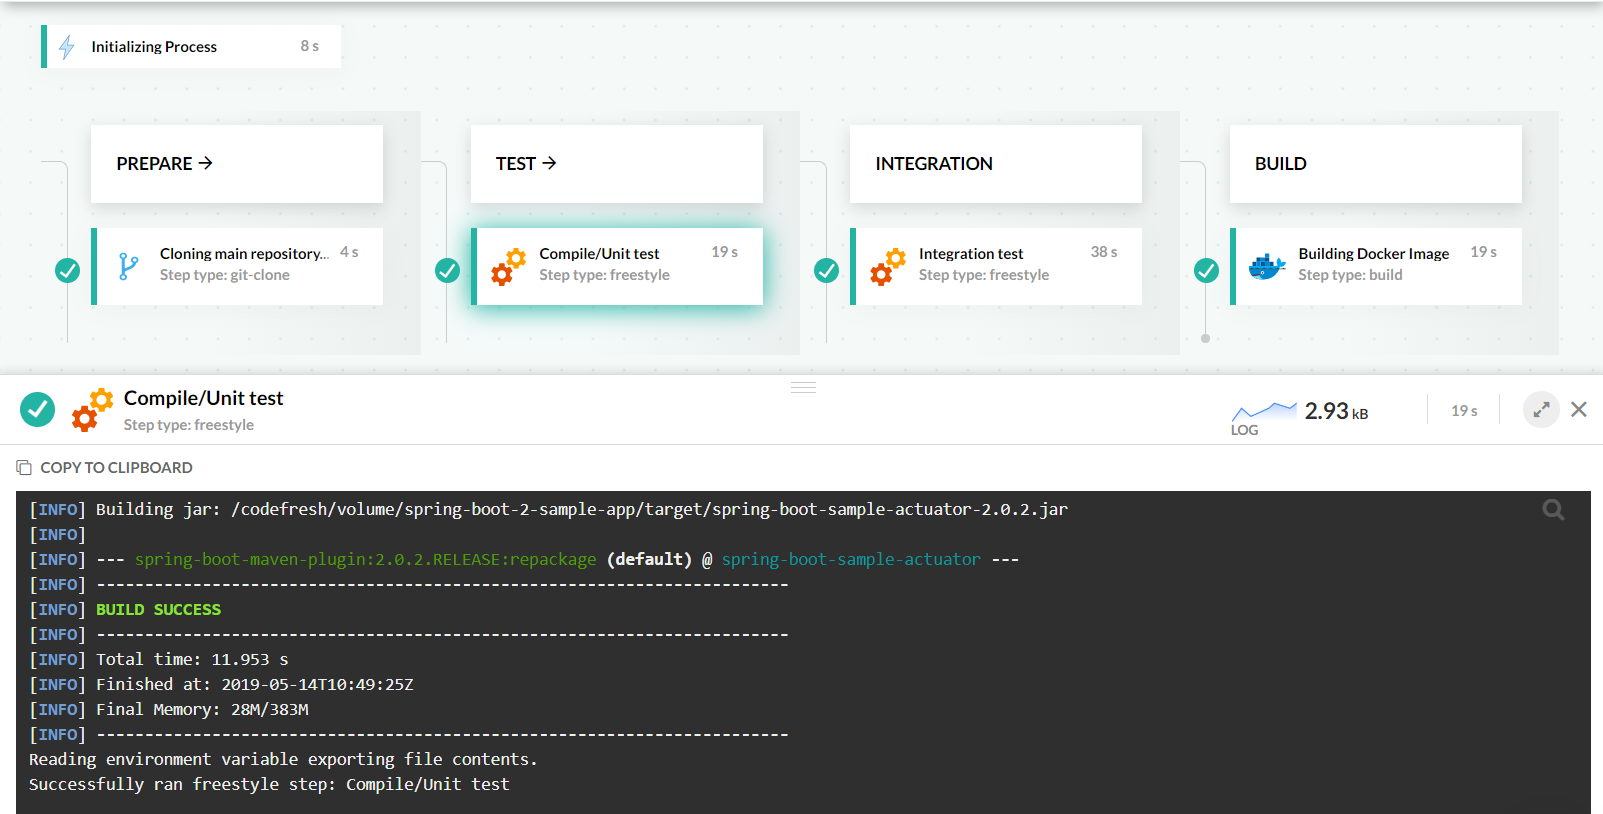
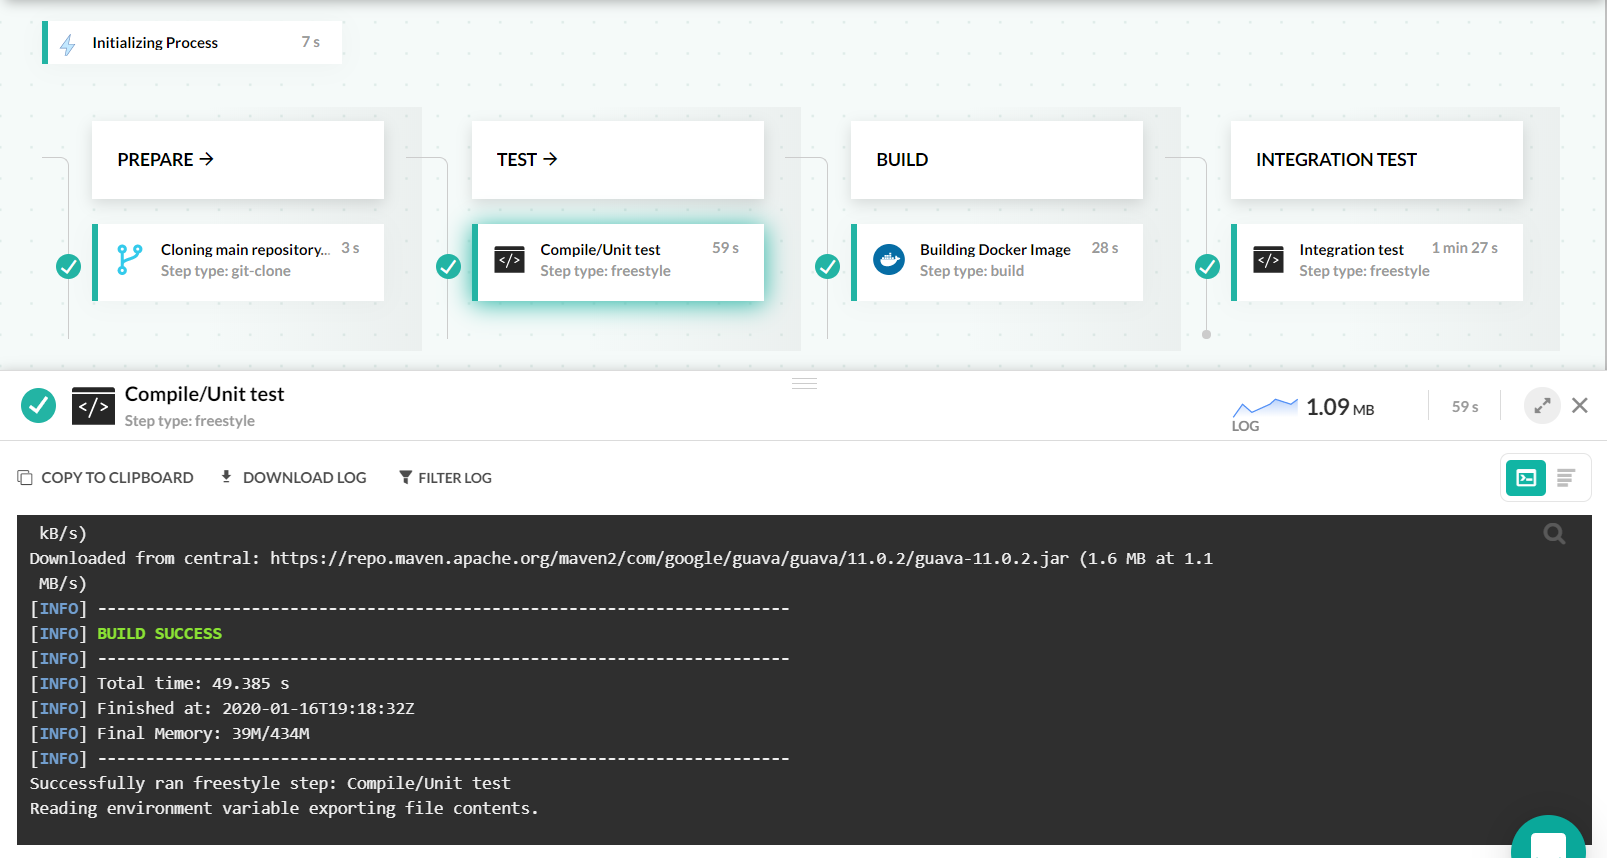
Used service containers in spring boot example

diff --git a/_docs/learn-by-example/java/spring-boot-2.md b/_docs/learn-by-example/java/spring-boot-2.md
@@ -28,7 +28,7 @@ Once launched the application presents a simple message at localhost:8080 and al
 
 A Dockerfile is also provided at the same repository. It uses the base JRE image and just copies the JAR file inside the container.
 
- `Dockerfile`
+ `Dockerfile.only-package`
 {% highlight docker %}
 {% raw %}
 FROM java:8-jre-alpine
@@ -52,15 +52,15 @@ The repository also contains a premade [Codefresh YAML file]({{site.baseurl}}/do
 
 Here are the full contents of the file.
 
- `codefresh.yml`
+ `codefresh-package-only.yml`
 {% highlight yaml %}
 {% raw %}
 version: '1.0'
 stages:
   - prepare
   - test
-  - integration
   - build
+  - 'integration test'
 steps:
   main_clone:
     title: Cloning main repository...
@@ -69,30 +69,43 @@ steps:
     repo: 'codefresh-contrib/spring-boot-2-sample-app'
     revision: master
     git: github
-  MyUnitTests:
+  run_unit_tests:
     title: Compile/Unit test
     stage: test
     image: 'maven:3.5.2-jdk-8-alpine'
     commands:
-      - mvn -Dmaven.repo.local=/codefresh/volume/m2_repository package
-  Integration:
-    title: Integration test
-    stage: integration
-    image: maven:3.5.2-jdk-8-alpine
-    commands:
-     - mvn -Dmaven.repo.local=/codefresh/volume/m2_repository verify      
-  MyAppDockerImage:
+      - mvn -Dmaven.repo.local=/codefresh/volume/m2_repository package      
+  build_app_image:
     title: Building Docker Image
     type: build
     stage: build
     image_name: spring-boot-2-sample-app
     working_directory: ./
     tag: 'non-multi-stage'
-    dockerfile: Dockerfile
+    dockerfile: Dockerfile.only-package
+  run_integration_tests:
+    title: Integration test
+    stage: 'integration test'
+    image: maven:3.5.2-jdk-8-alpine
+    commands:
+     - mvn -Dmaven.repo.local=/codefresh/volume/m2_repository verify -Dserver.host=http://my-spring-app
+    services:
+      composition:
+        my-spring-app:
+          image: '${{build_app_image}}'
+          ports:
+            - 8080
+      readiness:
+        timeoutSeconds: 30
+        periodSeconds: 15
+        image: byrnedo/alpine-curl
+        commands:
+          - "curl http://my-spring-app:8080/"
 {% endraw %}
 {% endhighlight %}
 
-The pipeline starts by checking out the code using a [git clone step]({{site.baseurl}}/docs/codefresh-yaml/steps/git-clone/). The next two steps are [freestyle]({{site.baseurl}}/docs/codefresh-yaml/steps/freestyle/), while the last one is a [build step]({{site.baseurl}}/docs/codefresh-yaml/steps/build/).
+The pipeline starts by checking out the code using a [git clone step]({{site.baseurl}}/docs/codefresh-yaml/steps/git-clone/). The next step is  a [freestyle]({{site.baseurl}}/docs/codefresh-yaml/steps/freestyle/) one and packages the jar file. Next we have a [build step]({{site.baseurl}}/docs/codefresh-yaml/steps/build/) that creates the docker image. Finally we have another freestyle
+step that uses [service containers]({{site.baseurl}}/docs/codefresh-yaml/service-containers/) to run integration tests.
 
 {% include image.html 
 lightbox="true" 
@@ -107,15 +120,9 @@ After checking out the code we use the standard [Maven Docker image](https://hub
 
 ### Caching the Maven dependencies
 
-Codefresh is smart enough that [caches automatically]({{site.baseurl}}/docs/configure-ci-cd-pipeline/introduction-to-codefresh-pipelines/#how-caching-works-in-codefresh) for us the workspace of a build (`/codefresh/volume`). This works great for build tools that keep their cache in the project folder, but not for Maven/Gradle which keep their cache externally. By changing the location of the Maven use on the project folder (the `m2_repository` name is arbitrary) we make sure that Codefresh will cache automatically the Maven libraries resulting in much faster builds.
+Codefresh is smart enough that [caches automatically]({{site.baseurl}}/docs/configure-ci-cd-pipeline/pipeline-caching/) for us the workspace of a build (`/codefresh/volume`). This works great for build tools that keep their cache in the project folder, but not for Maven/Gradle which keep their cache externally. By changing the location of the Maven use on the project folder (the `m2_repository` name is arbitrary) we make sure that Codefresh will cache automatically the Maven libraries resulting in much faster builds.
 
-The next step is similar to the previous one, but this time we run integration tests. We define again a custom cache folder so when you run the build you will see that Maven will automatically pick the cache from the previous step. All Codefresh steps in a pipeline [run on the same workspace]({{site.baseurl}}/docs/configure-ci-cd-pipeline/introduction-to-codefresh-pipelines/#sharing-the-workspace-between-build-steps), so the build results from one step are visible to the next.
-
->Notice that because the [Maven lifecycle](https://maven.apache.org/guides/introduction/introduction-to-the-lifecycle.html) also executes the previous steps in a build, the `mvn verify` command essentially will run `mvn package` as well. In theory we could just have the _Integration_ step in this pipeline on its own. That step would build the code, run unit and integration tests all in one stage. For demonstration purposes however, we include two steps so that you can see the correct usage of Maven cache.
-
-The Spring Boot 2 project is setup so that the `verify` phase automatically starts the application, runs the integration tests and stops it. This is defined in the [pom.xml](https://github.com/codefresh-contrib/spring-boot-2-sample-app/blob/master/pom.xml#L81) with the standard Maven lifecycle bindings.
-
-The last step is a Docker build. We name our image **spring-boot-2-sample-app** and tag it with a string `non-multi-stage` but of course you can use any other tag name that you wish.
+The next step is a Docker build. We name our image **spring-boot-2-sample-app** and tag it with a string `non-multi-stage` but of course you can use any other tag name that you wish.
 
 {% include image.html 
 lightbox="true" 
@@ -128,13 +135,17 @@ max-width="80%"
 
 Once the pipeline is finished you will see the Spring Boot 2 Docker image in the [Codefresh Docker registry]({{site.baseurl}}/docs/docker-registries/codefresh-registry/) (or any other registry that you have linked within Codefresh).
 
+The last step is similar to the unit tests, but this time we run integration tests. We define again a custom cache folder so when you run the build you will see that Maven will automatically pick the cache from the previous step. All Codefresh steps in a pipeline [run on the same workspace]({{site.baseurl}}/docs/configure-ci-cd-pipeline/introduction-to-codefresh-pipelines/#sharing-the-workspace-between-build-steps), so the build results from one step are visible to the next.
+
+>Notice that because the [Maven lifecycle](https://maven.apache.org/guides/introduction/introduction-to-the-lifecycle.html) also executes the previous steps in a build, the `mvn verify` command essentially will run `mvn package` as well. In theory we could just have the _Integration_ step in this pipeline on its own. That step would build the code, run unit and integration tests all in one stage. For demonstration purposes however, we include two steps so that you can see the correct usage of Maven cache.
+
+
 ## Spring Boot 2 and Docker (multi-stage builds)
 
 Docker added [multi-stage builds](https://blog.docker.com/2017/07/multi-stage-builds/) at version 17.05. With multi-stage builds a Docker build can use one base image for compilation/packaging/unit tests and a different one that will hold the runtime of the application. This makes the final image more secure and smaller in size (as it does not contain any development/debugging tools).
 
 In the case of Java, multistage builds allow for the compilation itself to happen during the build process, even though the final Docker image will not contain a full JDK.
 
-The example project has a second branch called `multi-stage-docker` that contains the same source code but a different Dockerfile and codefresh.yml.
 
 Here is the multi-stage build definition:
 
@@ -146,7 +157,7 @@ COPY pom.xml /tmp/
 RUN mvn -B dependency:go-offline -f /tmp/pom.xml -s /usr/share/maven/ref/settings-docker.xml
 COPY src /tmp/src/
 WORKDIR /tmp/
-RUN mvn -B -s /usr/share/maven/ref/settings-docker.xml verify
+RUN mvn -B -s /usr/share/maven/ref/settings-docker.xml package
 
 FROM java:8-jre-alpine
 
@@ -166,7 +177,7 @@ This docker build does the following:
 1. Copies only the `pom.xml` file inside the container
 1. Runs a mvn command to download all dependencies found in the `pom.xml`
 1. Copies the rest of the source code in the container
-1. Compiles the code, runs unit tests and then integration tests (with `mvn verify`)
+1. Compiles the code and runs unit tests (with `mvn package`)
 1. Discards the Maven image with all the compiled classes/unit test results etc
 1. Starts again from the JRE image and copies **only** the JAR file created before
 
@@ -178,7 +189,7 @@ Again, we define a custom location for the Maven cache (using the `settings-dock
 
 ### Create a CI pipeline for Spring (multi-stage Docker builds)
 
-Because in multi-stage builds Docker itself handles most of the build process, moving the project to Codefresh is straightforward. We just need [a single step](https://github.com/codefresh-contrib/spring-boot-2-sample-app/blob/multi-stage-docker/codefresh.yml) that creates the Docker image after checking out the code.
+Because in multi-stage builds Docker itself handles most of the build process, moving the project to Codefresh is straightforward. We just need [a single step](https://github.com/codefresh-contrib/spring-boot-2-sample-app/blob/master/codefresh.yml) that creates the Docker image after checking out the code. The integration test step is the same as before.
 
  `codefresh.yml`
 {% highlight yaml %}
@@ -186,23 +197,43 @@ Because in multi-stage builds Docker itself handles most of the build process, m
 version: '1.0'
 stages:
   - prepare
+  - test
   - build
+  - 'integration test'
 steps:
   main_clone:
     title: Cloning main repository...
     stage: prepare
     type: git-clone
     repo: 'codefresh-contrib/spring-boot-2-sample-app'
-    revision: multi-stage-docker
-    git: github
-  BuildingDockerImage:
+    revision: master
+    git: github     
+  build_app_image:
     title: Building Docker Image
-    stage: build
     type: build
+    stage: build
     image_name: spring-boot-2-sample-app
     working_directory: ./
     tag: 'multi-stage'
     dockerfile: Dockerfile
+  run_integration_tests:
+    title: Integration test
+    stage: 'integration test'
+    image: maven:3.5.2-jdk-8-alpine
+    commands:
+     - mvn -Dmaven.repo.local=/codefresh/volume/m2_repository verify -Dserver.host=http://my-spring-app
+    services:
+      composition:
+        my-spring-app:
+          image: '${{build_app_image}}'
+          ports:
+            - 8080
+      readiness:
+        timeoutSeconds: 30
+        periodSeconds: 15
+        image: byrnedo/alpine-curl
+        commands:
+          - "curl http://my-spring-app:8080/"
 {% endraw %}
 {% endhighlight %}
 
